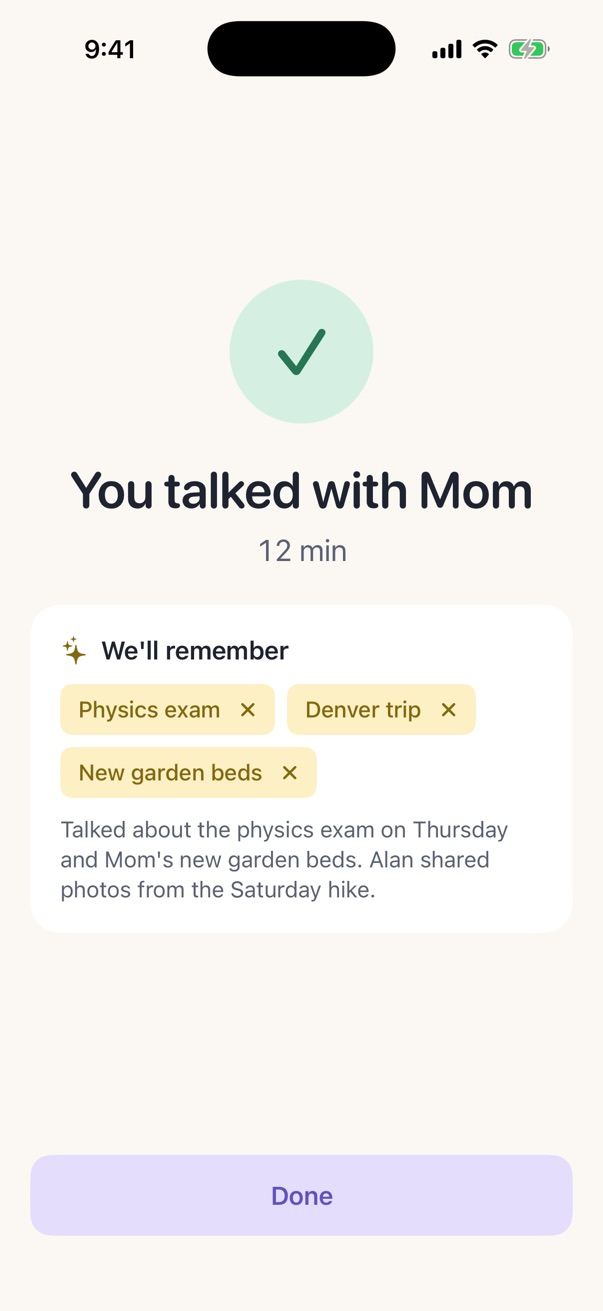
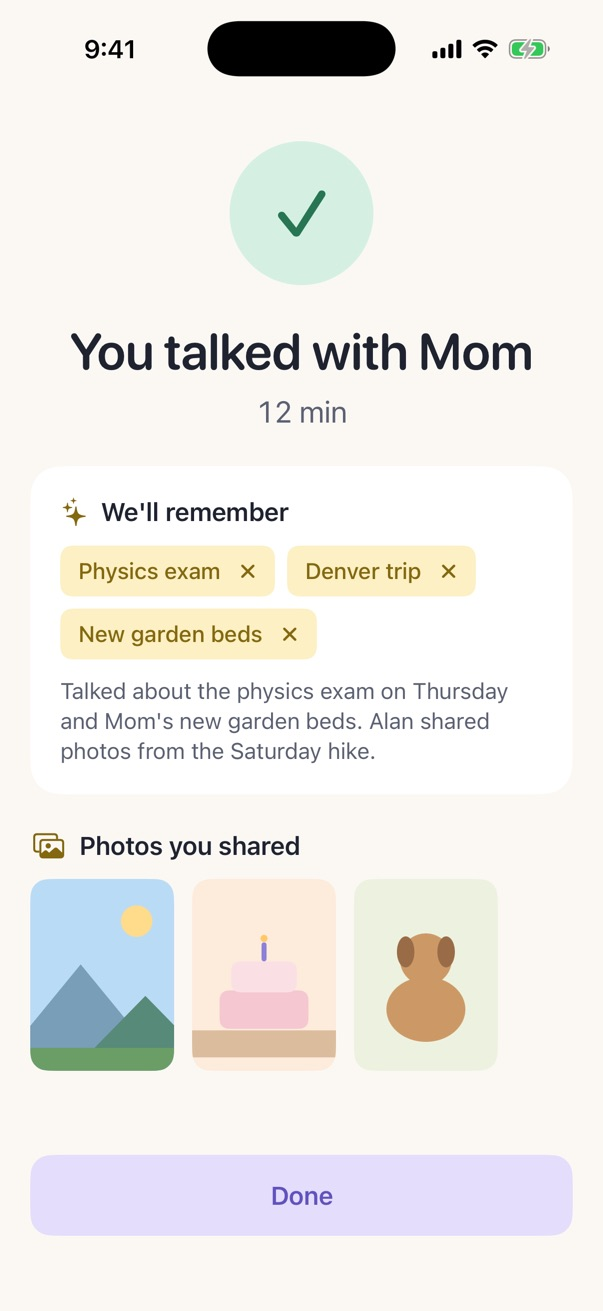
iOS: keep the call summary up until it's written, and show the photos
The 10 s auto-close now starts once the summary has loaded (or memories are off,
or polling gave up), so a slow summary no longer vanishes mid-"Writing…".
The summary screen adds a "Photos you shared" row, and says where the summary
will appear if it takes longer than 60 s.

Changed region(s): [[0.0299, 0.3356, 0.8955, 0.8238], [0.1194, 0.0915, 0.8955, 0.3356]]

diff --git a/ios/App/Call/CallSummaryView.swift b/ios/App/Call/CallSummaryView.swift
@@ -1,9 +1,11 @@
 import DesignSystem
 import Memory
 import Models
+import PhotoShare
 import SwiftUI
 
-/// MEM-6: duration + "We'll remember" chips (deletable). Closes itself after 10 s if ignored.
+/// MEM-6: duration + "We'll remember" chips (deletable) + the photos shown on the call.
+/// Closes itself 10 s after everything has loaded, if ignored.
 struct CallSummaryView: View {
     @Environment(AppModel.self) private var app
     @State private var interacted = false
@@ -19,8 +21,9 @@ struct CallSummaryView: View {
                 content(p, Beat(t: beat.t - Self.presentDelay, reduceMotion: beat.reduceMotion))
             }
             .nudgeBackground()
-            .task(id: interacted) {
-                guard !app.isPreview, !interacted else { return }
+            // The countdown starts only once the summary is in (or can't come), so the summary is never cut off mid-write.
+            .task(id: p.isSettled && !interacted) {
+                guard !app.isPreview, p.isSettled, !interacted else { return }
                 try? await Task.sleep(for: .seconds(10))
                 if !Task.isCancelled, !interacted { app.memory.dismissSummary() }
             }
@@ -65,6 +68,9 @@ struct CallSummaryView: View {
                         }
                     }
                     Text(s.summary).font(.subheadline).foregroundStyle(Palette.inkSecondary)
+                } else if p.summaryTimedOut {
+                    Text("The summary is taking longer than usual. It'll appear on \(p.friendName)'s profile.")
+                        .font(.subheadline).foregroundStyle(Palette.inkSecondary)
                 } else {
                     HStack(spacing: Space.xs) {
                         ProgressView().controlSize(.small)
@@ -77,11 +83,37 @@ struct CallSummaryView: View {
             .motionLayer(beat.fadeUp(at: 0.3, fade: 0.3, rise: 0.5, distance: 16))
             .padding(.horizontal, Space.margin)
 
+            if !p.photos.isEmpty { photos(p) }
+
             Spacer()
             NudgeButton("Done") { app.memory.dismissSummary() }
                 .motionLayer(beat.springUp(at: 0.95).tappable)
                 .padding(.horizontal, Space.margin)
                 .padding(.bottom, Space.m)
         }
+    }
+
+    private func photos(_ p: MemoryStore.PendingSummary) -> some View {
+        VStack(alignment: .leading, spacing: Space.s) {
+            HStack(spacing: Space.xs) {
+                Image(systemName: "photo.on.rectangle").foregroundStyle(Palette.butterStrong)
+                Text("Photos you shared").font(.headline).foregroundStyle(Palette.ink)
+            }
+            .padding(.horizontal, Space.margin)
+            ScrollView(.horizontal, showsIndicators: false) {
+                HStack(spacing: Space.s) {
+                    ForEach(p.photos) { photo in
+                        // Screenshot mode has no server, so its fixtures name a bundled scene instead.
+                        PhotoContent(image: app.isPreview ? .placeholder(photo.shareId) : .url(photo.url))
+                            .frame(width: 96, height: 128)
+                            .clipShape(RoundedRectangle(cornerRadius: Radius.input, style: .continuous))
+                            .accessibilityLabel(photo.senderId == p.friendId ? "Photo from \(p.friendName)" : "Photo you showed")
+                    }
+                }
+                .padding(.horizontal, Space.margin)
+            }
+            .simultaneousGesture(DragGesture(minimumDistance: 4).onChanged { _ in interacted = true })
+        }
+        .transition(.opacity)
     }
 }

diff --git a/ios/Packages/NudgeKit/Sources/Memory/MemoryStore.swift b/ios/Packages/NudgeKit/Sources/Memory/MemoryStore.swift
@@ -13,6 +13,7 @@ public final class MemoryStore {
     public var error: String?
     private let api: NudgeAPI
     private var pollTask: Task<Void, Never>?
+    private var photosTask: Task<Void, Never>?
 
     public struct PendingSummary: Identifiable, Hashable, Sendable {
         public var id: String { callId }
@@ -22,14 +23,24 @@ public final class MemoryStore {
         public var durationSec: Int
         public var summary: CallSummary?
         public var memoryAllowed: Bool
+        /// Photos either person showed during the call.
+        public var photos: [CallPhoto]
+        /// Polling gave up before the summary was written; it will still land on the friend's profile.
+        public var summaryTimedOut: Bool
 
-        public init(callId: String, friendId: String, friendName: String, durationSec: Int, summary: CallSummary? = nil, memoryAllowed: Bool = true) {
+        /// Nothing more is coming, so the screen may start its auto-close countdown.
+        public var isSettled: Bool { summary != nil || !memoryAllowed || summaryTimedOut }
+
+        public init(callId: String, friendId: String, friendName: String, durationSec: Int, summary: CallSummary? = nil,
+                    memoryAllowed: Bool = true, photos: [CallPhoto] = [], summaryTimedOut: Bool = false) {
             self.callId = callId
             self.friendId = friendId
             self.friendName = friendName
             self.durationSec = durationSec
             self.summary = summary
             self.memoryAllowed = memoryAllowed
+            self.photos = photos
+            self.summaryTimedOut = summaryTimedOut
         }
     }
 
@@ -60,10 +71,22 @@ public final class MemoryStore {
         do { try await api.deleteAllMemories() } catch { self.error = error.localizedDescription }
     }
 
-    /// Shows the summary screen immediately and polls until topics are ready (≤ 60 s).
+    /// Shows the summary screen immediately, loads the call's photos, and polls until topics are ready (≤ 60 s).
     public func callEnded(callId: String, friendId: String, friendName: String, durationSec: Int, memoryAllowed: Bool) {
         pendingSummary = PendingSummary(callId: callId, friendId: friendId, friendName: friendName, durationSec: durationSec, memoryAllowed: memoryAllowed)
         pollTask?.cancel()
+        photosTask?.cancel()
+        photosTask = Task {
+            // The server may not have recorded the end yet when the other side hung up (409 call_active).
+            for attempt in 0..<4 {
+                if Task.isCancelled { return }
+                if let photos = try? await api.callPhotos(callId: callId) {
+                    if pendingSummary?.callId == callId { pendingSummary?.photos = photos }
+                    return
+                }
+                try? await Task.sleep(for: .seconds(1 + attempt))
+            }
+        }
         guard memoryAllowed else { return }
         pollTask = Task {
             for _ in 0..<20 {
@@ -74,6 +97,7 @@ public final class MemoryStore {
                 }
                 try? await Task.sleep(for: .seconds(3))
             }
+            if !Task.isCancelled, pendingSummary?.callId == callId { pendingSummary?.summaryTimedOut = true }
         }
     }
 
@@ -84,6 +108,7 @@ public final class MemoryStore {
 
     public func dismissSummary() {
         pollTask?.cancel()
+        photosTask?.cancel()
         pendingSummary = nil
     }
 

diff --git a/ios/App/Debug/ScreenshotMode.swift b/ios/App/Debug/ScreenshotMode.swift
@@ -234,6 +234,9 @@ enum MockData {
         func photo(_ id: String, _ sender: String, _ name: String, qi: Int = 0, ql: Int = 1) -> PhotoRef {
             PhotoRef(shareId: id, senderId: sender, image: .placeholder(name), startedAt: now, durationMs: 6000, queueIndex: qi, queueLength: ql)
         }
+        func recapPhoto(_ name: String, _ sender: String) -> CallPhoto {
+            CallPhoto(shareId: name, senderId: sender, url: URL(string: "https://example.invalid/\(name).jpg")!, createdAt: now)
+        }
         switch screen {
         case "call-connecting": app.call.preview(peer: mom, peerName: "Mom", phase: .connecting)
         case "call-connected": app.call.preview(peer: mom, peerName: "Mom", phase: .connected)
@@ -246,7 +249,8 @@ enum MockData {
         case "call-muted": app.call.preview(peer: mom, peerName: "Mom", phase: .connected, muted: true, cameraOn: false, remoteCameraOff: true)
         case "call-reconnecting": app.call.preview(peer: mom, peerName: "Mom", phase: .reconnecting, poorNetwork: true)
         case "summary":
-            app.memory.preview(friendId: mom.id, memories: Memories(topics: topics), pending: .init(callId: "c_2", friendId: mom.id, friendName: "Mom", durationSec: 754, summary: summaries[0]))
+            app.memory.preview(friendId: mom.id, memories: Memories(topics: topics), pending: .init(callId: "c_2", friendId: mom.id, friendName: "Mom", durationSec: 754, summary: summaries[0],
+                                                                                                    photos: [recapPhoto("hike", me.id), recapPhoto("cake", mom.id), recapPhoto("garden dog", mom.id)]))
         case "summary-pending":
             app.memory.preview(friendId: mom.id, memories: Memories(), pending: .init(callId: "c_2", friendId: mom.id, friendName: "Mom", durationSec: 754))
         default: break

diff --git a/ios/Packages/NudgeKit/Sources/Networking/NudgeAPI.swift b/ios/Packages/NudgeKit/Sources/Networking/NudgeAPI.swift
@@ -234,6 +234,13 @@ public struct NudgeAPI: Sendable {
         try await client.request(.get, "/calls/\(callId)/shares/\(shareId)")
     }
 
+    /// Photos shown during an ended call, for the summary screen (D-6 amendment).
+    public func callPhotos(callId: String) async throws -> [CallPhoto] {
+        struct Photos: Decodable, Sendable { let photos: [CallPhoto] }
+        let r: Photos = try await client.request(.get, "/calls/\(callId)/shares")
+        return r.photos
+    }
+
     struct ShownBody: Encodable, Sendable { let shownAt: Date; let durationMs: Int }
     public func markShown(callId: String, shareId: String, shownAt: Date, durationMs: Int) async throws {
         try await client.send(.post, "/calls/\(callId)/shares/\(shareId)/shown", body: ShownBody(shownAt: shownAt, durationMs: durationMs))

diff --git a/ios/Packages/NudgeKit/Sources/Models/DTOs.swift b/ios/Packages/NudgeKit/Sources/Models/DTOs.swift
@@ -620,6 +620,23 @@ public struct ShareCreated: Codable, Sendable, Hashable {
     public var thumbUrl: URL
 }
 
+/// A photo either person showed during a call, for the post-call recap. `url` expires after 5 minutes.
+public struct CallPhoto: Codable, Sendable, Hashable, Identifiable {
+    public var shareId: String
+    public var senderId: String
+    public var url: URL
+    public var createdAt: Date
+
+    public var id: String { shareId }
+
+    public init(shareId: String, senderId: String, url: URL, createdAt: Date) {
+        self.shareId = shareId
+        self.senderId = senderId
+        self.url = url
+        self.createdAt = createdAt
+    }
+}
+
 public struct ShareURL: Codable, Sendable, Hashable {
     public var url: URL
     public var expiresAt: Date
